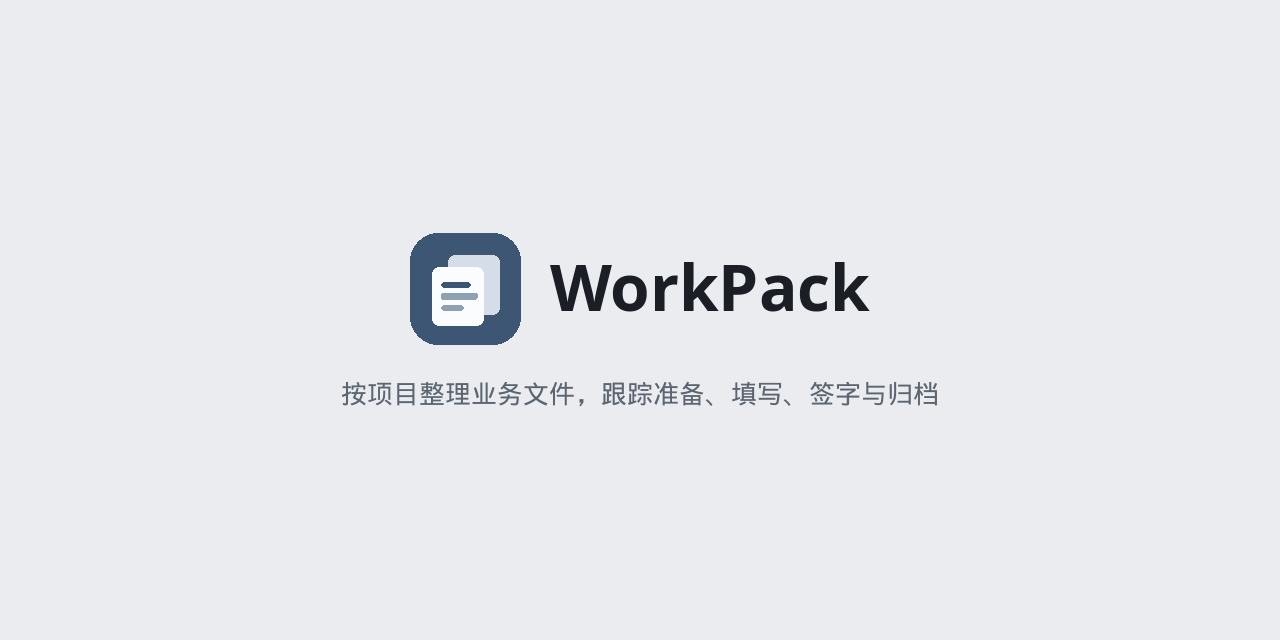
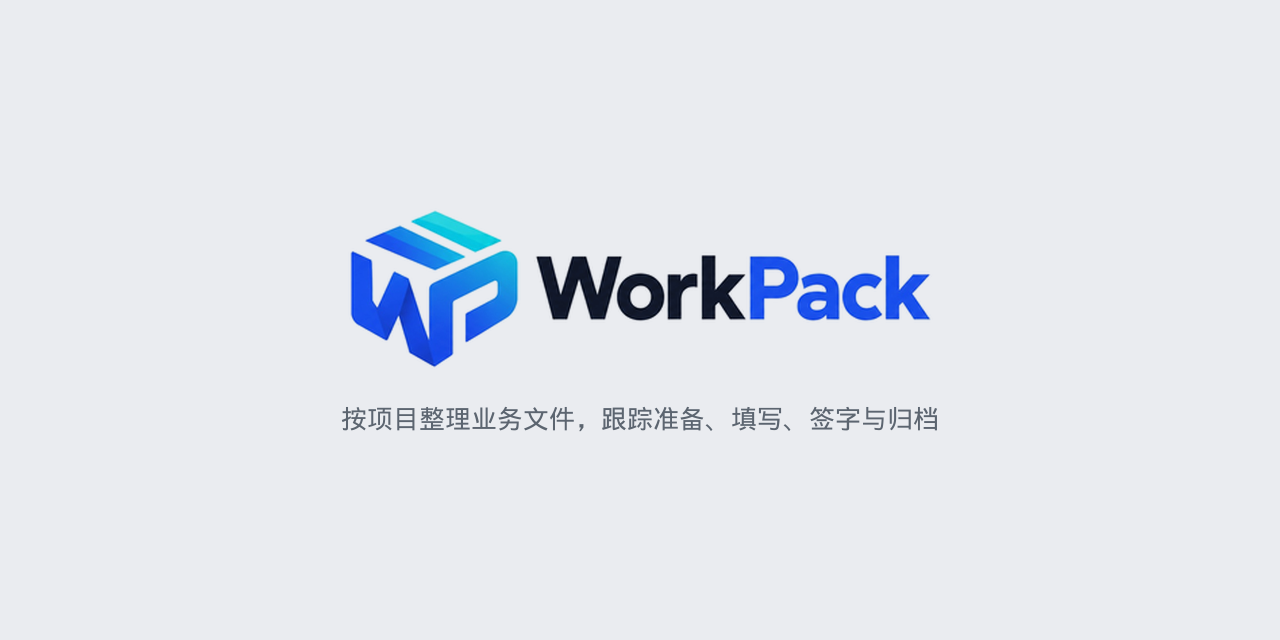
首页标志改用应用侧栏里的 WorkPack 标志

Changed region(s): [[0.25, 0.3125, 0.75, 0.6875]]

diff --git a/tests/test_readme.py b/tests/test_readme.py
@@ -35,13 +35,21 @@ class ReadmeTest(unittest.TestCase):
                 self.assertIn(topic, README)
 
     def test_landing_visuals_are_linked(self):
+        self.assertIn("src/renderer/src/assets/workpack-logo.png", README)
+        self.assertTrue((ROOT / "src/renderer/src/assets/workpack-logo.png").is_file())
         self.assertIn("prefers-color-scheme: dark", README)
-        for name in ("logo.png", "logo-dark.png", "pending.png", "project-drawer.png", "checklist.png"):
+        self.assertIn("docs/assets/workpack-logo-on-light.png", README)
+        self.assertTrue((ROOT / "docs" / "assets" / "workpack-logo-on-light.png").is_file())
+        for name in ("pending.png", "project-drawer.png", "checklist.png"):
             with self.subTest(name=name):
                 self.assertIn(f"docs/assets/{name}", README)
                 self.assertTrue((ROOT / "docs" / "assets" / name).is_file())
         self.assertIn("social-preview.png", README)
         self.assertTrue((ROOT / "docs" / "assets" / "social-preview.png").is_file())
+        for name in ("logo.png", "logo-dark.png", "logo.svg", "logo-dark.svg"):
+            with self.subTest(removed=name):
+                self.assertNotIn(f"docs/assets/{name}", README)
+                self.assertFalse((ROOT / "docs" / "assets" / name).exists())
 
 
 if __name__ == "__main__":

diff --git a/README.md b/README.md
@@ -1,8 +1,8 @@
 # WorkPack
 
 <picture>
-  <source media="(prefers-color-scheme: dark)" srcset="docs/assets/logo-dark.png">
-  <img alt="WorkPack" src="docs/assets/logo.png" width="220" height="56">
+  <source media="(prefers-color-scheme: dark)" srcset="docs/assets/workpack-logo-on-light.png">
+  <img alt="WorkPack" src="src/renderer/src/assets/workpack-logo.png" width="260" height="72">
 </picture>
 
 WorkPack 是一个面向 Windows 的本地桌面应用，用于按项目整理发货、收货、培训等业务文件，并跟踪每份文件的**准备、填写、签字、归档**状态。
@@ -91,7 +91,7 @@ src/
 tests/                    # Vitest 服务测试与 Python 检查
 demo/                     # 早期静态网页原型，可直接用浏览器打开，数据不持久化
 scripts/test.cjs          # 用 Electron 自带的 Node 运行 Vitest（匹配 better-sqlite3 原生模块）
-docs/assets/              # 首页标志、界面截图，以及可作仓库社交预览的 social-preview.png
+docs/assets/              # 深色主题下垫了浅底的侧栏标志、界面截图，以及可作仓库社交预览的 social-preview.png
 DESIGN.md                 # 界面设计规范（设计 token 与交互规则），修改界面前先阅读
 产品设计文档_MVP.md
 技术方案_MVP.md
